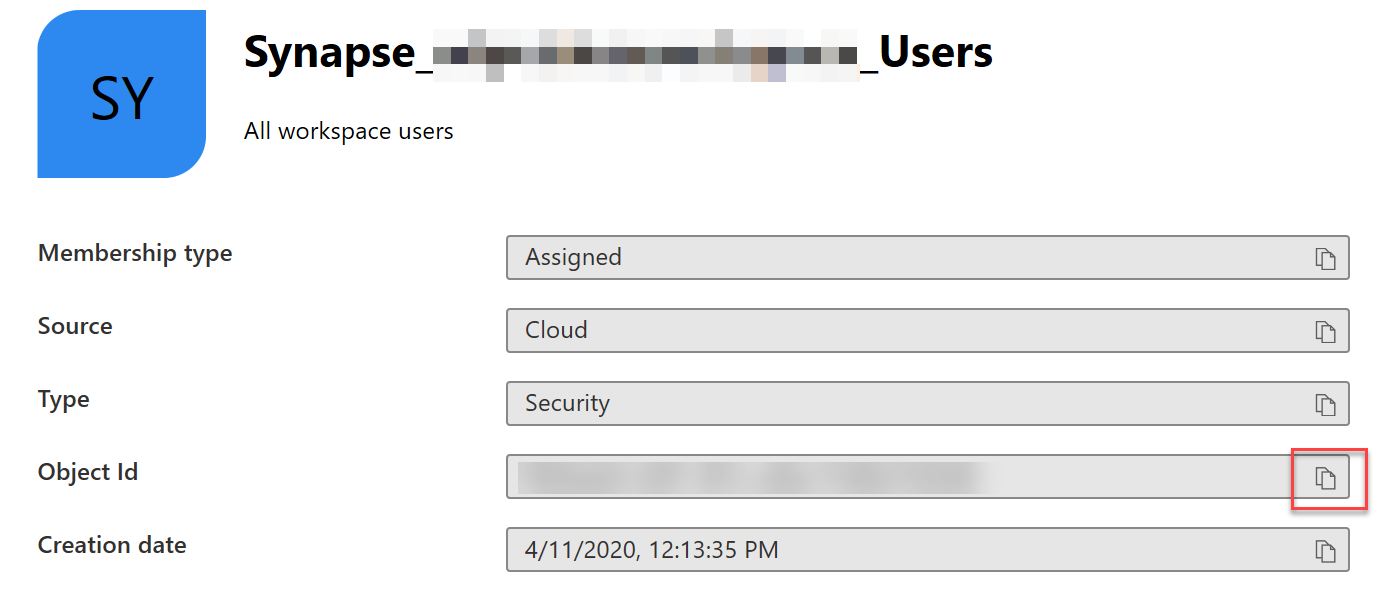
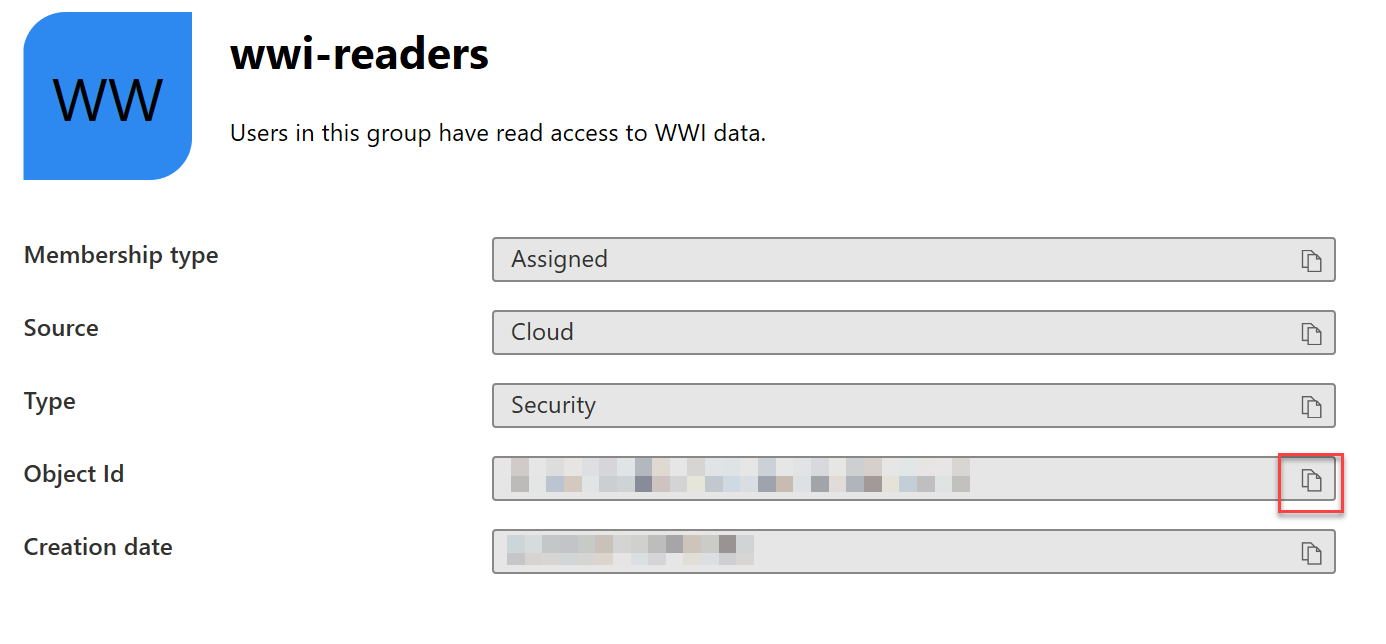
more progress. Almost complete.

diff --git a/day-02/lab05-security.md b/day-02/lab05-security.md
@@ -4,40 +4,35 @@ Wide World Importers is host to a plethora of data coming from many disparate so
 
 This lab will guide you through all the security-related steps that cover an end-to-end security story for Azure Synapse Analytics. Some key take-aways from this lab are:
 
-    1. Clearly define job functions and the access that each requires to Azure resources - keeping in mind the principle of least privilege. Define Azure Security Groups to match these functions and assign users to these groups, and not to specific resources directly. On Azure resources, grant permissions to Azure Security Groups, and not individual users.
+1. Clearly define job functions and the access that each requires to Azure resources - keeping in mind the principle of least privilege. Define Azure Security Groups to match these functions and assign users to these groups, and not to specific resources directly. On Azure resources, grant permissions to Azure Security Groups, and not individual users.
 
-    2. Leverage a private Virtual Network for all Azure resources, create private endpoints/links wherever possible to enable private network communication over the Azure backend network.
-        
-        > **Note**: You must enable ASA Managed VNet at the time of creation of your Azure Synapse Analytics workspace, this can't be added after the fact.
-        
-    3. Leverage Azure Key Vault to store sensitive connection information, such as access keys and passwords for linked services as well as in pipelines. 
-    
-    4. Introspect the data that is contained within the SQL Pools in the context of potential sensitive/confidential data disclosure. Identify and classify this data, then secure it by adding column-level and/or row level security. If desired, you also have the option of applying Dynamic Data Masking to mask sensitive data returned in queries.
+2. Leverage a private Virtual Network for all Azure resources, create private endpoints/links wherever possible to enable private network communication over the Azure backend network.
+
+    > **Note**: You must enable ASA Managed VNet at the time of creation of your Azure Synapse Analytics workspace, this can't be added after the fact.
+
+3. Leverage Azure Key Vault to store sensitive connection information, such as access keys and passwords for linked services as well as in pipelines.
+
+4. Introspect the data that is contained within the SQL Pools in the context of potential sensitive/confidential data disclosure. Identify and classify this data, then secure it by adding column-level and/or row level security. If desired, you also have the option of applying Dynamic Data Masking to mask sensitive data returned in queries.
 
 ```text
 Team Recommendations:
-    - Data discovery (not available)
+    - Data discovery (for classification recommendations - not available)
     - Column Level Encryption (not available) - can't create a cert with Encryption By Password (statement fails) <-- this was demonstrated at ignite :(
 ```
 
-************ TODO:
+---
+
 Lab Pre-requisites:
     - workspace MUST created with managed vnet, this is the backbone/key of a secure ASA workspace
-    - lab student can create a new AAD user (for walking through adding them to SQL Pool with an ID)
+    - have an AAD User that student can use for walking through adding them to SQL Pool with an ID (they will not be logging in as them)
+Lab Testing:
+    - will need a workspace with a Managed VNet to test the content of this lab.
 
-Content
+---
 
-- security recommendations for when creating linked services, use keyvault, ex.Sql AAD Admin account for sql pools and account keys for storage accounts.
-
-  - SQL Pools add spiel on Transparent Data Encryption (<https://docs.microsoft.com/en-us/azure/sql-database/transparent-data-encryption-azure-sql?view=sql-server-ver15&tabs=azure-portal>)
-  - Exercise 3 - Task 2 - verify connecting key vault to Managed VNet Steps with a Workspace that has one.
+- data classification fed into predicate filter for CLS  
+- Key vault and power bi ?
   
-  - data classification fed into predicate filter for RLS
-  - Add key vault to store secret to linked services, (Storage key)
-  - Key vault and power bi ?
-  - Add Storage Accounts to the Managed VNet
-  - Enable Advanced Threat detection on Storage Accounts
-
 - [End-to-end security with Azure Synapse Analytics](#end-to-end-security-with-azure-synapse-analytics)
   - [Resource naming throughout this lab](#resource-naming-throughout-this-lab)
   - [Exercise 1 - Securing Azure Synapse Analytics supporting infrastructure](#exercise-1---securing-azure-synapse-analytics-supporting-infrastructure)
@@ -51,10 +46,11 @@ Content
   - [Exercise 2 - Securing the Azure Synapse Analytics workspace and managed services](#exercise-2---securing-the-azure-synapse-analytics-workspace-and-managed-services)
     - [Task 1 - Secure your Synapse workspace](#task-1---secure-your-synapse-workspace)
     - [Task 2 - Managing secrets with Azure Key Vault](#task-2---managing-secrets-with-azure-key-vault)
-    - [Task 2 - Access control to workspace pipeline runs](#task-2---access-control-to-workspace-pipeline-runs)
+    - [Task 2 - Use Azure Key Vault for secrets when creating Linked Services](#task-2---use-azure-key-vault-for-secrets-when-creating-linked-services)
+    - [Task 2 - Secure workspace pipeline runs](#task-2---secure-workspace-pipeline-runs)
     - [Task 3 - Access Control to Synapse SQL Serverless](#task-3---access-control-to-synapse-sql-serverless)
-    - [Task 4 - Access Control to Synapse SQL Pools](#task-4---access-control-to-synapse-sql-pools)
-    - [Task 5 - Secure Synapse Spark pools](#task-5---secure-synapse-spark-pools)
+    - [Task 4 - Secure Azure Synapse Analytics SQL Pools](#task-4---secure-azure-synapse-analytics-sql-pools)
+    - [Task 5 - Secure Azure Synapse Analytics Spark pools](#task-5---secure-azure-synapse-analytics-spark-pools)
     - [Task 6 - Secure Power BI reports](#task-6---secure-power-bi-reports)
   - [Exercise 3 - Securing Azure Synapse Analytics workspace data](#exercise-3---securing-azure-synapse-analytics-workspace-data)
     - [Task 1 - Setting granular permissions in the data lake with POSIX-style access control lists](#task-1---setting-granular-permissions-in-the-data-lake-with-posix-style-access-control-lists)
@@ -194,6 +190,18 @@ When the Azure Synapse Workspace was created, it required the selection of an Az
    2. Ensure the MSI with the same name as your workspace (`Workspace`) is listed as a **Contributor**. If it isn't listed, please add it now following the instruction in Step 5.
 
     **** TODO: NEED A SCREENSHOT, the default container for the workspace (tempdata in asadatalake01) doesn't allow me to add role assignments and the MSI isn't listed as a contributor ****
+
+ Additional security precautions can be taken such as enabling **Advanced Threat detection** on all Storage accounts. When this feature is enabled, the Azure Security Center will monitor all traffic to and from the storage account and is able to identify suspicious activity. When such an event occurs, an email is sent out indicating the details of the anomaly along with potential causes and remediation recommendations. These events are also available for review in the **Azure Security Center**. [See this article](https://docs.microsoft.com/en-us/azure/security-center/security-center-intro) for more about Azure Security Center.
+
+ 1. In **Azure Portal**, open a storage account resource such as `PrimaryStorage`.
+
+ 2. From the left menu, select **Advanced Security**.
+
+ 3. On the **Advanced Security** screen, select the **Enable Advanced Threat Protection**.
+
+ 4. For this lab, we will not enable this setting.
+
+    ![In the Storage Account screen, Advanced security is selected from the left menu and the Enable Advanced Threat Protection Button is highlighted.](media/lab5_storageadvancedthreatprotection.png)
 
 ### Task 4 - Set the SQL Active Directory admin
 
@@ -408,9 +416,43 @@ Azure Key Vault supports private endpoints. By establishing a private endpoint i
 
     ![In the Firewall settings for the key vault, the IP address field is highlighted and the Save button is selected in the top toolbar.](media/lab5_keyvaultfirewall.png)
 
-### Task 2 - Access control to workspace pipeline runs
+### Task 2 - Use Azure Key Vault for secrets when creating Linked Services
 
-To successfully run pipelines that include datasets or activities that reference a SQL pool, the workspace Managed Identity needs to be granted access to the SQL pool directly. Store any secrets that may be part of your pipeline in Azure Key Vault, you will be able to retrieve these values using a Web activity.
+Linked Services are synonymous with connection strings in Azure Synapse Analytics. Azure Synapse Analytics linked services provides the ability to connect to nearly 100 different types of external services ranging from Azure Storage Accounts to Amazon S3 and more. When connecting to external services, having secrets related to connection information is guaranteed. The best place to store these secrets is the Azure Key Vault. Azure Synapse Analytics provides the ability to configure all linked service connections with values from Azure Key Vault.
+
+In order to leverage Azure Key Vault in linked services, you must first add `KeyVault01` as a linked service in Azure Synapse Analytics.
+
+1. In **Azure Synapse Studio**, select **Manage** from the left menu.
+
+2. Beneath **External Connections**, select **Linked Services**, then select the **+ New** button from the toolbar menu.
+
+   ![In Azure Synapse Studio, the Manage item is selected from the left menu. From the center menu, Linked services is selected. On the Linked services screen the + Add button is highlighted on the toolbar.](media/lab5_linkedservicesnewmenu.png)
+
+3. In the **New linked service** blade, search for **Azure Key Vault** and select it from the search results then press **Continue**.
+
+   ![In the New linked service blade, Azure Key Vault is entered in the search textbox. The Azure Key Vault search result is the only visible tile in the search results.](media/lab5_azurekeyvaultlinkedservicesearch.png)
+
+4. Fill out the **New linked service (Azure Key Vault)** form as follows, then select **Create**:
+
+   1. **Name**: Enter `KeyVault01`
+
+   2. **Description**: Enter **Key Vault for Linked Service Secrets**.
+
+   3. **Azure key vault selection method**: Select **From Azure subscription**.
+
+   4. **Azure subscription**: Select `WorkspaceSubscription`.
+
+   5. **Azure key vault name**: Select `KeyVault01`.
+
+    ![The New linked service (Azure Key Vault) form is displayed populated with the previous values.](media/lab5_keyvaultlinkedserviceform.png)
+
+Now that we have the Azure Key Vault setup as a linked service, we can now leverage it when defining new linked services. Every New linked service provides the option to retrieve secrets from Azure Key Vault. The form requests the selection of the Azure Key Vault linked service, the secret name, and (optional) specific version of the secret.
+
+![A New linked service form is displayed with teh Azure Key Vault setting highlighted with the fields described in the preceding paragraph.](media/lab5_newlinkedservicewithakv.png)
+
+### Task 2 - Secure workspace pipeline runs
+
+To successfully run pipelines that include datasets or activities that reference a SQL pool, the workspace Managed Identity needs to be granted access to the SQL pool directly.
 
 1. In **Azure Synapse Studio**, select **Develop** from the left menu.
 
@@ -440,31 +482,33 @@ To successfully run pipelines that include datasets or activities that reference
 
 6. You may now close the query tab, when prompted choose **Discard all changes**.
 
-7. Let's now demonstrate using a Web activity in the pipeline to retrieve a secret from the Key Vault. Open the `KeyVault01` resource, and select **Secrets** from the left menu. From the top toolbar, select **+ Generate/Import**.
+You should also store any secrets that are part of your pipeline in Azure Key Vault, you will be able to retrieve these values using a Web activity. The second part of this task demonstrates using a Web activity in the pipeline to retrieve a secret from the Key Vault.
+
+1. Open the `KeyVault01` resource, and select **Secrets** from the left menu. From the top toolbar, select **+ Generate/Import**.
 
    ![In Azure Key Vault, Secrets is selected from the left menu, and + Generate/Import is selected from the top toolbar.](media/lab5_pipelinekeyvaultsecretmenu.png)
 
-8. Create a secret, with the name **PipelineSecret** and assign it a value of **IsNotASecret**, and select the **Create** button.
+2. Create a secret, with the name **PipelineSecret** and assign it a value of **IsNotASecret**, and select the **Create** button.
 
    ![The Create a secret form is displayed populated with the specified values.](media/lab5_keyvaultcreatesecretforpipeline.png)
 
-9. Open the secret that you just created, drill into the current version, and copy the value in the Secret Identifier field. Save this value in a text editor, or retain it in your clipboard for a future step.
+3. Open the secret that you just created, drill into the current version, and copy the value in the Secret Identifier field. Save this value in a text editor, or retain it in your clipboard for a future step.
 
     ![On the Secret Version form, the Copy icon is selected next to the Secret Identifier text field.](media/lab5_keyvaultsecretidentifier.png)
 
-10. Open the Azure Synapse Analytics Studio, select **Orchestrate** from the left menu.
+4. Open the Azure Synapse Analytics Studio, select **Orchestrate** from the left menu.
 
     ![The Azure Synapse Analytics Studio left menu is displayed with the Orchestrate item selected.](media/lab5_synapsestudioorchestratemenu.png)
 
-11. From the **Orchestrate** blade, select the **+** button and add a new **Pipeline**.
+5. From the **Orchestrate** blade, select the **+** button and add a new **Pipeline**.
 
     ![On the Orchestrate blade the + button is expanded with the Pipeline item selected beneath it.](media/lab5_synapsestudiocreatenewpipelinemenu.png)
 
-12. On the **Pipeline** tab, in the **Activities** pane search for **Web** and then drag an instance of a **Web** activity to the design area.
+6. On the **Pipeline** tab, in the **Activities** pane search for **Web** and then drag an instance of a **Web** activity to the design area.
 
     ![In the Activities pane, Web is entered into the search field. Under General, the Web activity is displayed in the search results. An arrow indicates the drag and drop movement of the activity to the design surface of the pipeline. The Web activity is displayed on the design surface.](media/lab5_pipelinewebactivitynew.png)
 
-13. Select the **Web1** web activity, and select the **Settings** tab. Fill out the form as follows:
+7. Select the **Web1** web activity, and select the **Settings** tab. Fill out the form as follows:
 
     1. **URL**: Paste the Secret Identifier value for the secret **append** `?api-version=7.0` to this value.
   
@@ -476,15 +520,15 @@ To successfully run pipelines that include datasets or activities that reference
 
     ![The Web Activity Settings tab is selected and the form is populated with the values indicated above.](media/lab5_pipelineconfigurewebactivity.png)
 
-14. Repeat Step 12, but this time add a **Set variable** activity to the design surface of the pipeline.
+8. Repeat Step 12, but this time add a **Set variable** activity to the design surface of the pipeline.
 
-15. On the design surface of the pipeline, select the **Web1** activity and drag a **Success** activity pipeline connection (green box) to the **Set variable1** activity.
+9. On the design surface of the pipeline, select the **Web1** activity and drag a **Success** activity pipeline connection (green box) to the **Set variable1** activity.
 
-16. With the pipeline selected in the designer, select the **Variables** tab and add a new **String** parameter named **SecretValue**.
+10. With the pipeline selected in the designer, select the **Variables** tab and add a new **String** parameter named **SecretValue**.
 
       ![The design surface of the pipeline is shown with a new pipeline arrow connecting the Web1 and Set variable1 activities. The pipeline is selected, and beneath the design surface, the Variables tab is selected with a variable with the name of SecretValue highlighted.](media/lab5_newpipelinevariable.png)
 
-17. Select the **Set variable1** activity and select the **Variables** tab. Fill out the form as follows:
+11. Select the **Set variable1** activity and select the **Variables** tab. Fill out the form as follows:
 
     1. **Name**: Select **SecretValue** (the variable that we just created on our pipeline).
 
@@ -492,7 +536,7 @@ To successfully run pipelines that include datasets or activities that reference
 
     ![On the pipeline designer, the Set Variable1 activity is selected. Below the designer, the Variables tab is selected with the form set the previously specified values.](media/lab5_pipelineconfigsetvaractivity.png)
 
-18. Debug the pipeline by selecting **Debug** from the toolbar menu. When it runs observe the inputs and outputs of both activities.
+12. Debug the pipeline by selecting **Debug** from the toolbar menu. When it runs observe the inputs and outputs of both activities.
 
     ![The pipeline toolbar is displayed with the Debug item highlighted.](media/lab5_pipelinedebugmenu.png)
 
@@ -550,7 +594,18 @@ When provisioning new users to the workspace, in addition to adding them to one 
 
 6. You may now close the query tab, when prompted choose **Discard all changes**.
 
-### Task 4 - Access Control to Synapse SQL Pools
+### Task 4 - Secure Azure Synapse Analytics SQL Pools
+
+Transparent Data Encryption (TDE) is a feature of SQL Server provides encryption and decryption of data at rest, this includes: databases, log files, and back ups. When using this feature with ASA SQL Pools, you have the option of using a built in symmetric Database Encryption Key (DEK) that is provided by the pool itself, or optionally by bringing in your own customer-managed asymmetric key. When using the latter approach, leverage Azure Key Vault functionality to safely store this key. All stored data is encrypted on disk, when the data is requested, TDE will decrypt this data at the page level as it's read into memory, and vice-versa encrypting in-memory data before it gets written back to disk. As with the name, this happens transparently without affecting any application code. When creating a SQL Pool through ASA, Transparent Data Encryption is not enabled. The first part of this task will show you how to enable this feature.
+
+1. In the **Azure Portal**, locate and open the `SqlPool01` resource.
+
+2. On the **SQL pool** resource screen, select **Transparent data encryption** from the left menu.
+   ![On the SQL pool resource screen, Transparent data encryption is selected from the menu.](media/lab5_sqlpoolresourcetransparentdataencryptionmenu.png)
+
+3. If your SQL Pool is not currently taking advantage of TDE, slide the **Data encryption** slider to the **ON** position, and select **Save**.
+
+    ![On the SQL Pool Transparent Data Encryption screen, the Data Encryption toggle is set to the ON position and the Save button is highlighted in the toolbar.](media/lab5_sqlpoolenabletdeform.png)
 
 When provisioning new users to the workspace, in addition to adding them to one our workspace security groups, they can also be added with direct user access to the SQL pools. You have the ability to manually add users to SQL databases on a per database basis. If a user needs to be added to multiple databases, these steps must be repeated for each one.
 
@@ -583,11 +638,9 @@ When provisioning new users to the workspace, in addition to adding them to one 
 
 > **Note**: db_datareader and db_datawriter roles can work for read/write if you are not comfortable granting db_owner permissions. However, for a Spark user to read and write directly from Spark into/from a SQL pool, db_owner permission is required.
 
-### Task 5 - Secure Synapse Spark pools
+### Task 5 - Secure Azure Synapse Analytics Spark pools
 
-*** Question: it doesn't look like you can bring existing Spark pools into the workspace, the pools are managed directory through Synapse. I am not seeing additional guidance that recommends additional security configuration here. Maybe remove this task altogether since it's technically covered in Manged VNet?
-
-Azure Synapse manages the creation of new Apache Spark Pools. It is recommended that when creating the Azure Synapse Workspace in the **Networking + Security** tab that you enable a managed VNet. Doing so will increase the security of the Spark Pools by ensuring both network isolation at the Synapse workspace level, but also at the User-isolation level as each pool will be created in its own subnet. We will learn more about this in Task 16.
+Azure Synapse Analytics manages the creation and security of new Apache Spark Pools. It is recommended that when creating the Azure Synapse Workspace in the **Networking + Security** tab that you enable a managed VNet. Doing so will increase the security of the Spark Pools by ensuring both network isolation at the Synapse workspace level, but also at the user isolation level as each pool will be created in its own subnet.
 
 ### Task 6 - Secure Power BI reports
 
@@ -607,25 +660,25 @@ Possible POSIX access permissions are as follows:
 | 4            | R--        | Read                   |
 | 0            | ---        | No permissions         |
 
-*** Question: should I dive deeper here on POSIX concepts like super-users, owning group, mask, etc.? It is covered very well in the link I put at the end of the task intro.
+On the first day, in Activity 1, you were introduced to the concept of the security surrounding storage account containers and files. As part of that exercise, the **wwi-readers** Active Directory Group is to be granted read-only access to all sales data (for all years) stored in CSV files in a container in storage.
 
 1. In **Synapse Analytics Studio**, select the **Data** item from the left menu.
 
     ![The Azure Analytics Studio left menu is expanded with the Data item selected.](media/lab5_synapsestudiodatamenuitem.png)
 
-2. Expand **Storage accounts**, expand the `PrimaryStorage` account, and choose the **customer-insight** container.
+2. Expand **Storage accounts**, expand the `PrimaryStorage` account, and choose the **wwi** container.
 
-    ![In the Data blade, the Storage accounts section is expanded as well as the default storage account item. The customer-insight container is selected from the list.](media/lab5_synapsestudiodatabladecustomerinsights.png)
+    ![In the Data blade, the Storage accounts section is expanded as well as the default storage account item. The wwi container is selected from the list.](media/lab5_synapsestudiodatabladewwi.png)
 
-3. On the **customer-insight** tab, select any directory, then from the toolbar menu select the **Manage Access** item.
+3. On the **wwi** tab, select the **factsale-csv** directory, then from the toolbar menu select the **Manage Access** item.
 
-    ![On the customer-insight tab, the Manage Access item is selected from the toolbar menu.](media/lab5_synapsestudiodatalakemanageaccess.png)
+    ![On the wwi tab, the Manage Access item is selected from the toolbar menu.](media/lab5_synapsestudiodatalakemanageaccess.png)
 
 4. On the **Manage Access** blade, select the individual principals from the top table and review their permissions in the permissions section below.
 
    ![The Manage Access blade is shown for a directory. The $superuser principal is selected from the top table, and in the permissions section it shows the access as being Read and Execute. The Default box is present (but not checked), and there is a textbox and Add button available to add additional principals to the access list.](media/lab5_synapsestudiomanageaccessdirectoryblade.png)
 
-5. In order to add a user group or permission, you would need to first enter the User Principal Name (UPN) or Object ID for the principal and select the **Add** button. As an example, we will obtain the Object ID for the **Synapse_`Workspace`_Users** security group.
+5. In order to add a user group or permission, you would need to first enter the User Principal Name (UPN) or Object ID for the principal and select the **Add** button. As an example, we will obtain the Object ID for the **wwi-readers** security group.
 
    1. In Azure Portal, expand the left menu and select **Azure Active Directory**.
 
@@ -635,21 +688,23 @@ Possible POSIX access permissions are as follows:
 
         ![On the Azure Active Directory screen, Groups is selected from the left menu](media/lab5_aadgroupsmenu.png)
 
-   3. From the listing of Groups, select the **Synapse_`Workspace`_Users** group.
+   3. In the search box, type **wwi-readers**, then select the group from the search results.
 
    4. On the **Overview** screen, use the **Copy** button next to the Object Id textbox to copy the value to the clipboard.
 
-        ![On the Overview screen of the Synapse_Workspace_Users group, the copy button is selected next to the Object Id textbox.](media/lab5_aadgroupcopyobjectid.png)
+        ![On the Overview screen of the wwi-readers group, the copy button is selected next to the Object Id textbox.](media/lab5_aadgroupcopyobjectid.png)
 
    5. Return to **Synapse Analytics Studio**, and paste this value into the **Add user, group, or service principal** field.
 
-   6. Do **not** select the **Add** button, we are not setting additional permissions at this time.
+   6. Select the **Add** button to add **wwi-readers** to the ACL list.
 
-6. Repeat steps 3-5 and observe a similar experience when selecting an individual file rather than a directory.
+   7. With **wwi-readers** selected, check the **Access** checkbox, along with the **Read** and **Execute** permissions.
+
+        ![In the principals list wwi-readers is selected. In permissions, the Access checkbox is checked along with the Read checkbox and Execute checkbox.](media/lab5_posixaclwwireaders.png)
+
+6. You can also provide POSIX ACL security at the individual file level. All you would have to do is repeat steps 3-7 and observe a similar experience when selecting an individual file rather than a directory.
 
 > **Note**: When adding permissions at the directory level, there is an additional **Default** checkbox in the permissions table. By checking this box, you are able to set default permissions that will be automatically applied to any new children (directories or files) created within this directory.
-
-*** TODO: Screenshot of putting the object id in the textbox (didn't have access to create groups so didn't have a valid object id to validate on the form)
 
 ### Task 2 - Column Level Security
 
